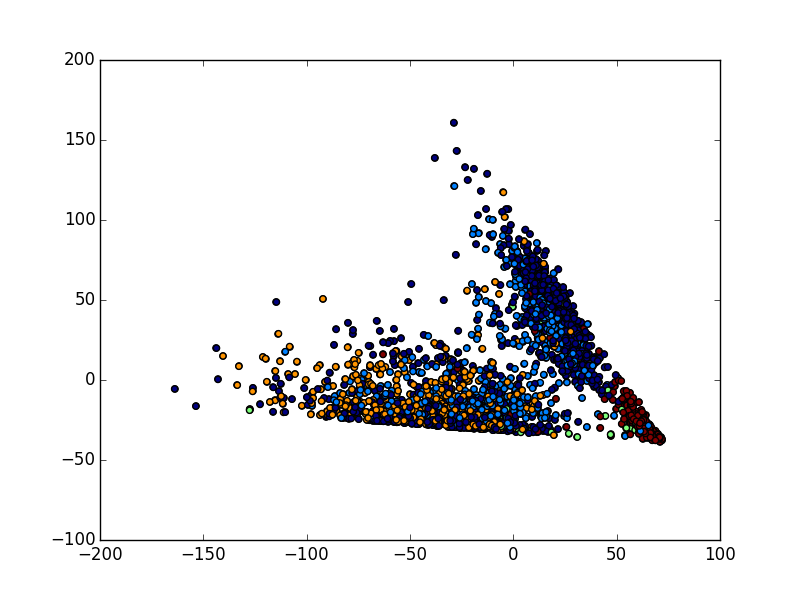
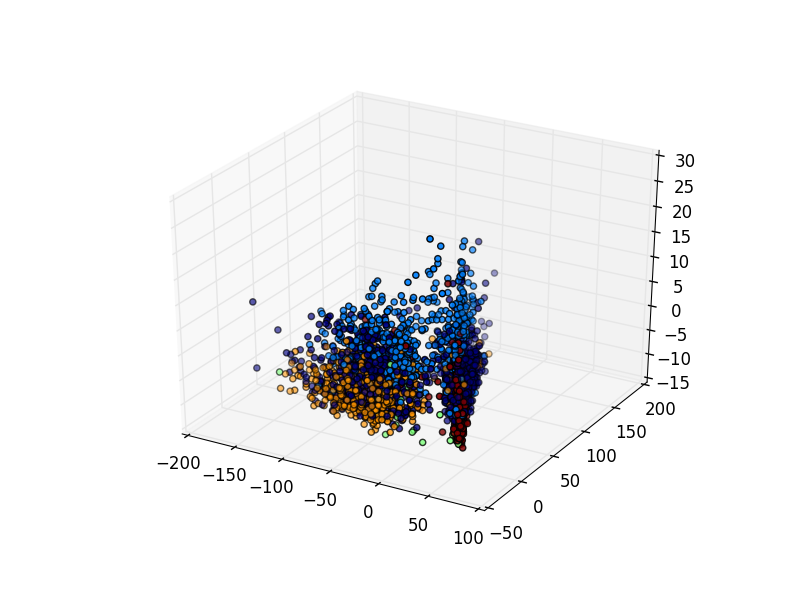
3D visualization added
We can now see in 3d!

diff --git a/rep-learning/pca.py b/rep-learning/pca.py
@@ -14,6 +14,7 @@ import matplotlib.pyplot as plt
 import random
 import sys
 import argparse
+from mpl_toolkits.mplot3d import Axes3D
 
 def parse_arguements():
     """
@@ -72,9 +73,6 @@ print("Computing PCA representation")
 pca = decomposition.PCA(arg_components)
 X_pca = pca.fit(X).transform(X)
 
-# plot the raw data
-plt.scatter(X_pca[:, 0], X_pca[:, 1])
-
 # plot the labels only if given                                                                                                              
 
 if Y_path:
@@ -86,8 +84,7 @@ if Y_path:
     unique_labels_dict = dict(zip(unique_labels, range(num_unique_labels)))
     colour_map = [unique_labels_dict[l] for l in Y]
 
-    # plot using this colour map                                                                                      
-    plt.scatter(X_pca[:,0], X_pca[:,1], c=colour_map)
+    # plot using this colour map                     
 
     '''
     for i in range(len(Y)):
@@ -95,6 +92,17 @@ if Y_path:
                  color=plt.cm.Set1(random.randint(1, 110)),
                  fontdict={'weight': 'bold', 'size': 4})
     '''
+else:
+    colour_map = np.ones((n_samples, 1))
+
+
+if arg_components == 2:                                                                 
+    plt.scatter(X_pca[:,0], X_pca[:,1], c=colour_map)
+
+else:
+    fig = plt.figure()
+    ax = fig.add_subplot(111, projection='3d')
+    ax.scatter(X_pca[:,0], X_pca[:,1], X_pca[:,2], c=colour_map)
 
 # save the figure
 plt.savefig(output_name)

diff --git a/README.md b/README.md
@@ -14,3 +14,6 @@ python rep-learning/pca.py -X league/pickles/X_relevant_stats -o league/results/
 
 # Perform PCA on league participant stats w/ colour labelling only for winners
 python rep-learning/pca.py -X league/pickles/X_relevant_stats_winners -o league/results/relevant_participant_stats_role_coloured_winners_pca.png -nc 2 -Y league/pickles/roles_winners
+
+# Perform PCA on league participant stats w/ colour labelling only for winners
+python rep-learning/pca.py -X league/pickles/X_relevant_stats_winners -o league/results/relevant_participant_stats_role_coloured_winners_pca.png -nc 3 -Y league/pickles/roles_winners
